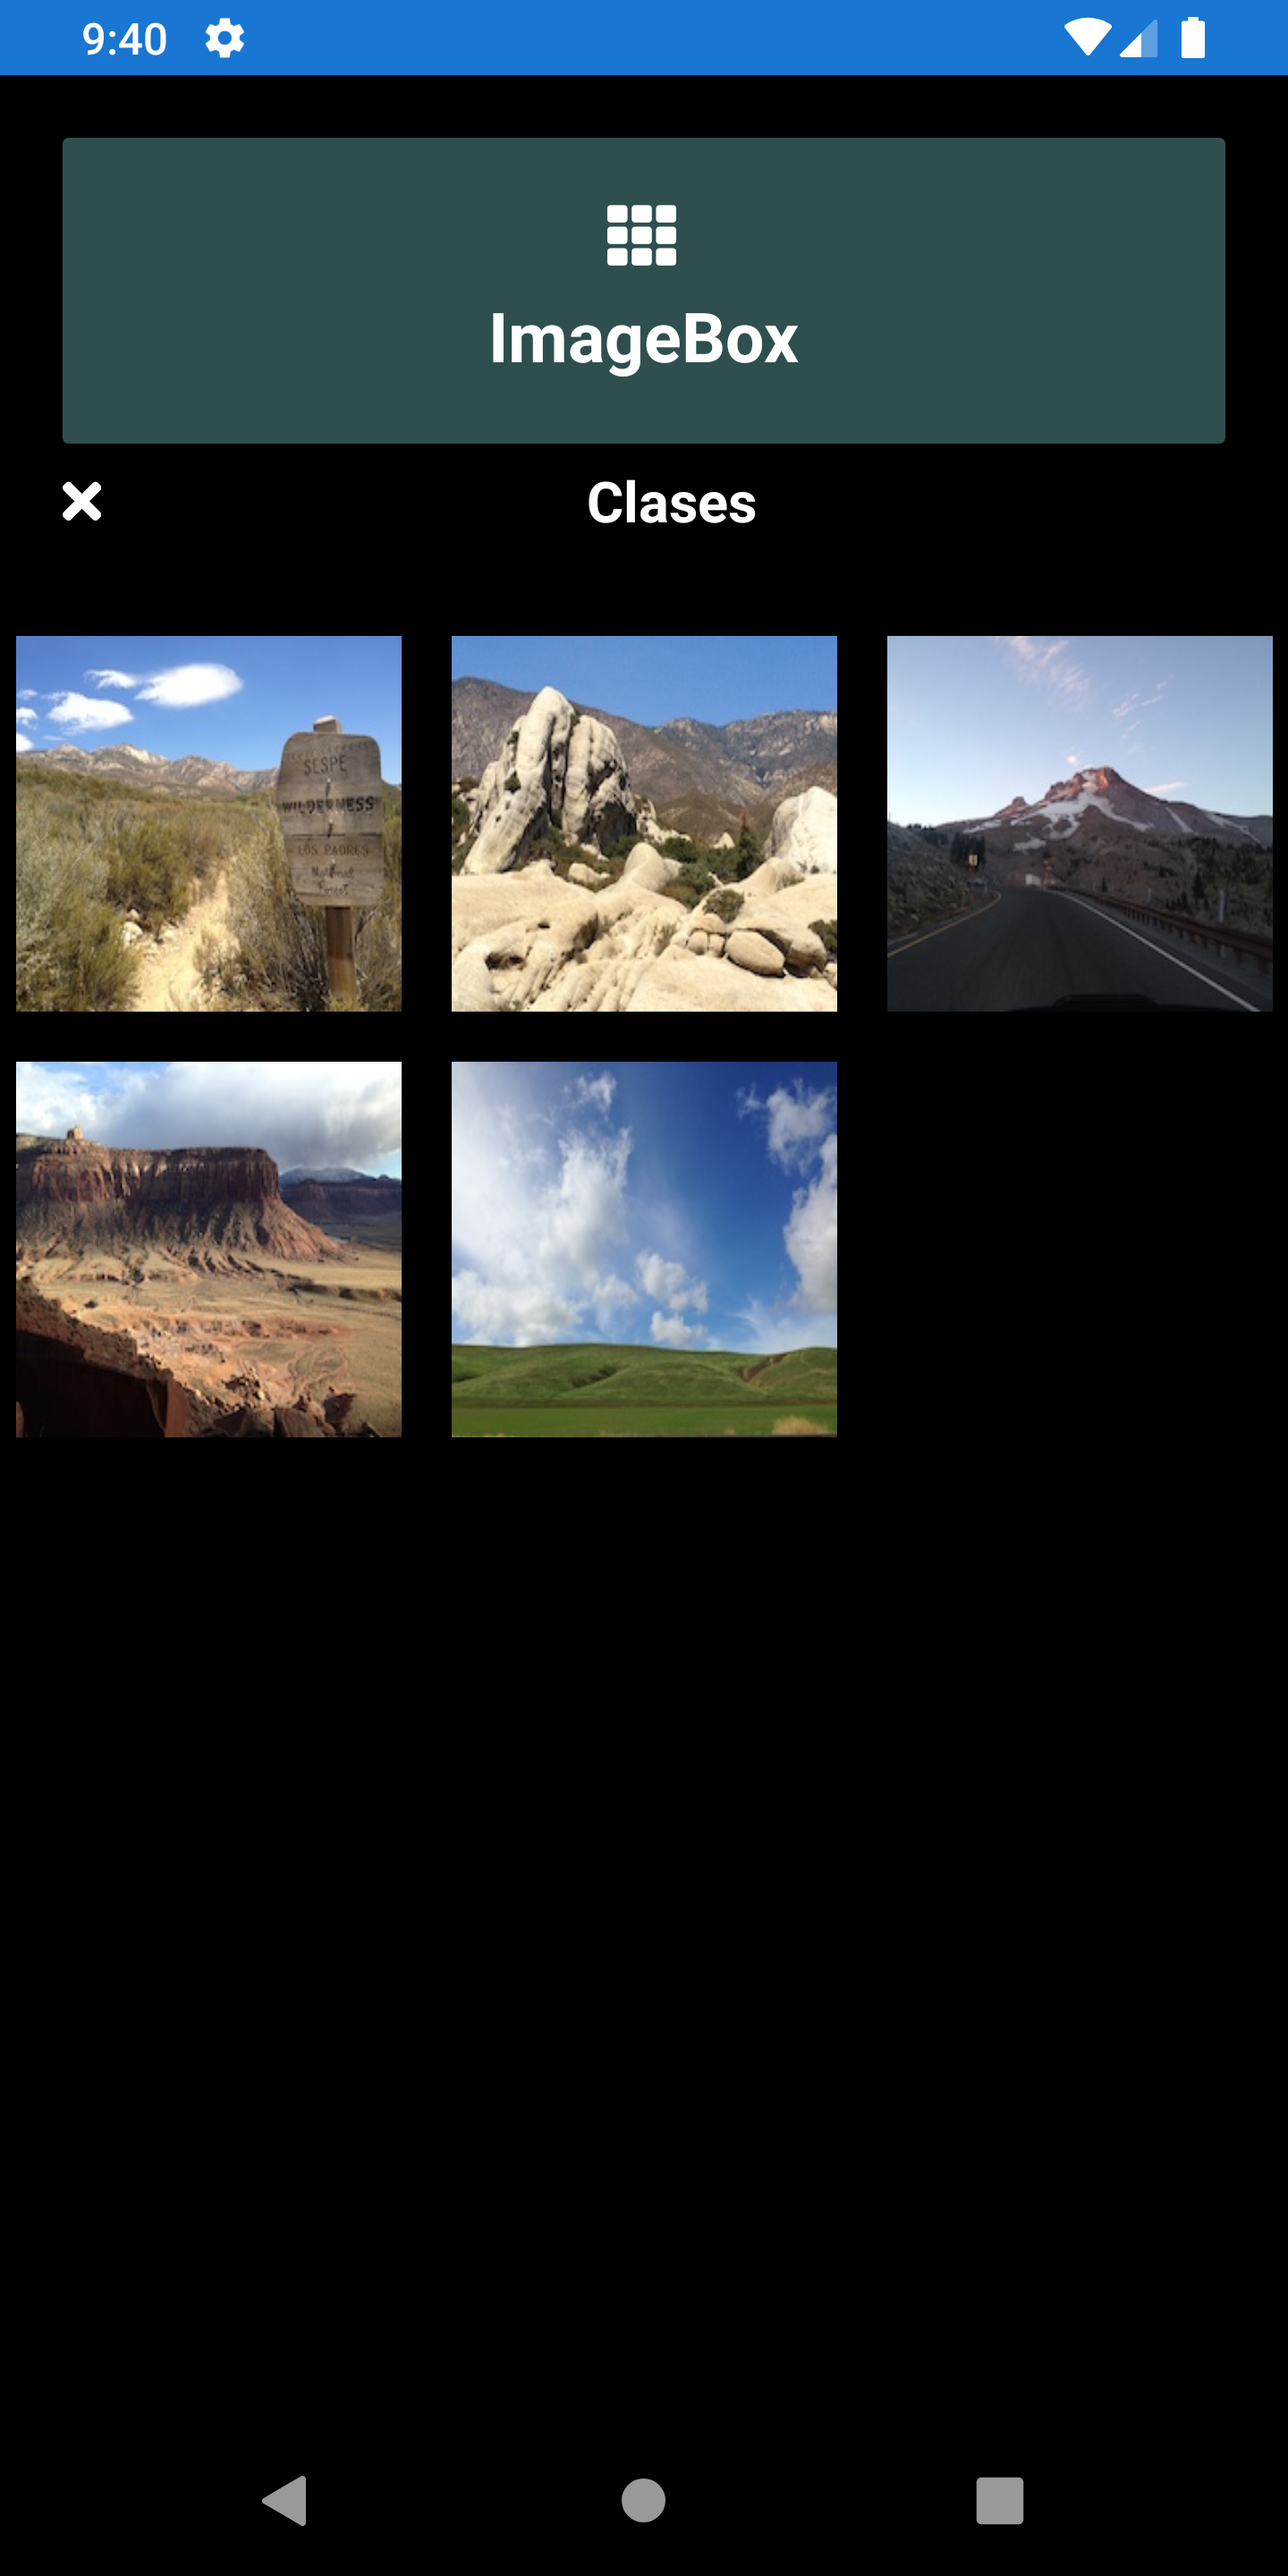
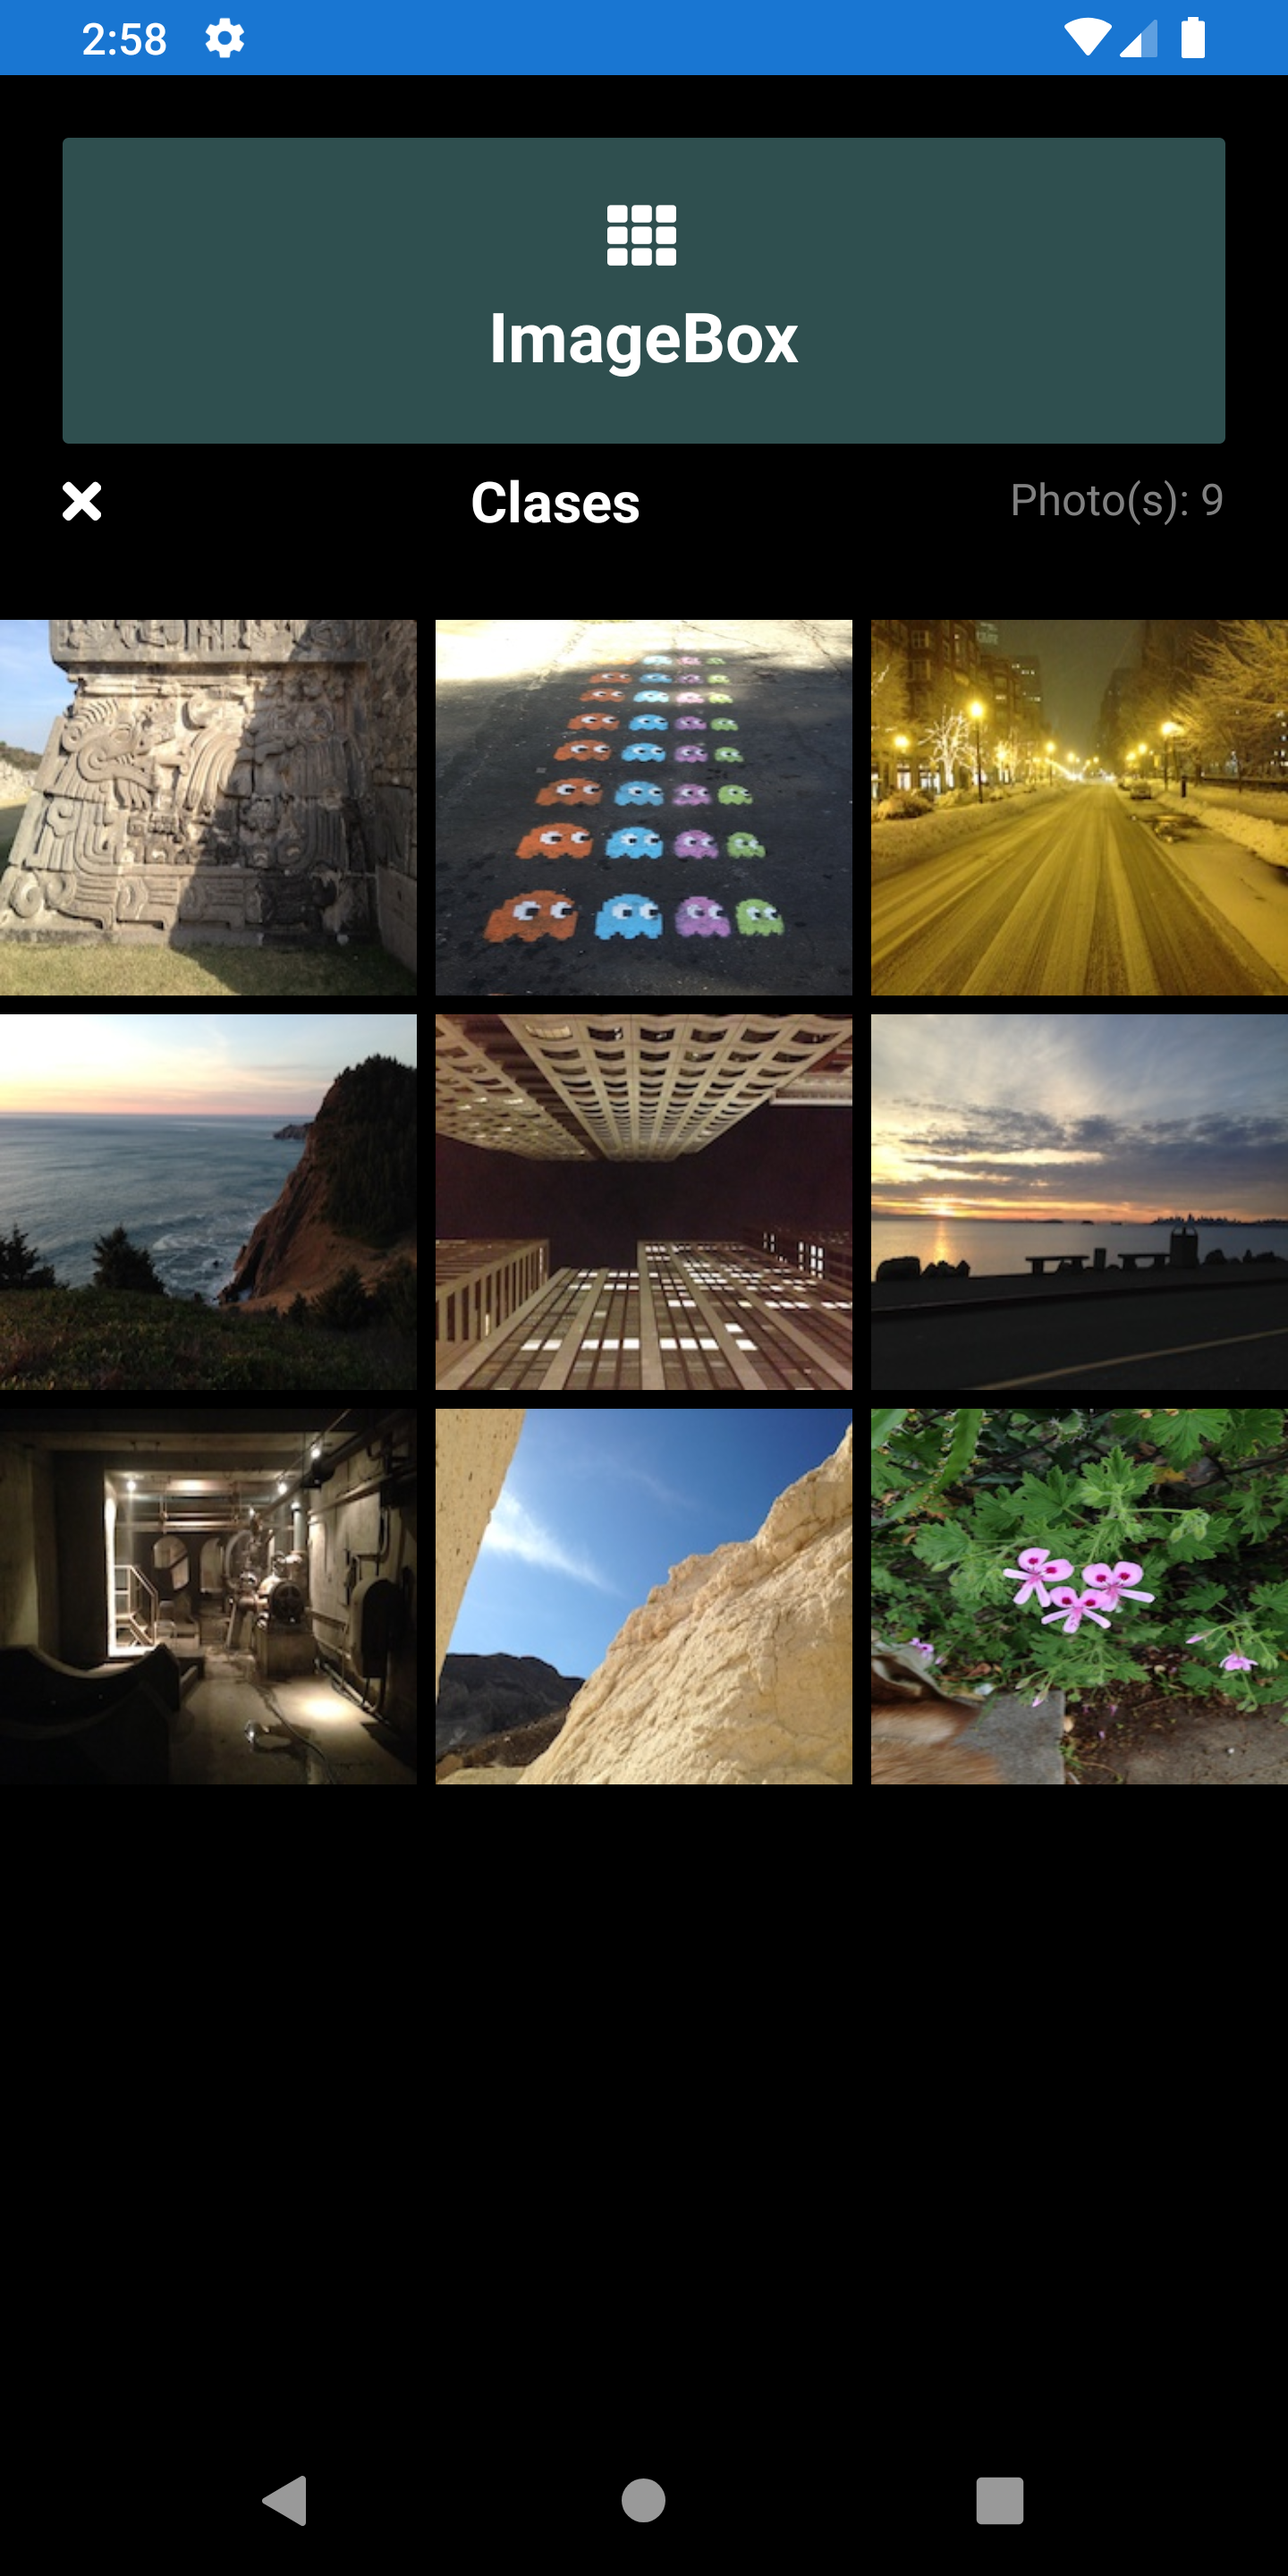
Uploading changes in the aplication layout.

diff --git a/ImageBox/ImageBox/MainPage.xaml b/ImageBox/ImageBox/MainPage.xaml
@@ -37,16 +37,16 @@
             <Label x:Name="txtPhotoTotal" Text="" TextColor="White" HorizontalOptions="Center" FontSize="Small" />
         </StackLayout>
         <StackLayout Orientation="Horizontal" VerticalOptions="FillAndExpand" HorizontalOptions="FillAndExpand">
-            <!--<ScrollView Orientation="Horizontal" VerticalOptions="FillAndExpand" HorizontalOptions="FillAndExpand">-->
-            <Image x:Name="imgCurrent" HorizontalOptions="FillAndExpand" VerticalOptions="FillAndExpand" Aspect="AspectFit" Source="Button">
-                <Image.GestureRecognizers>
-                    <SwipeGestureRecognizer Direction="Left"  Swiped="SwipeGestureRecognizer_SwipedLeft" />
-                    <SwipeGestureRecognizer Direction="Right" Swiped="SwipeGestureRecognizer_SwipedRight"/>
-                    <SwipeGestureRecognizer Direction="Up" Swiped="SwipeGestureRecognizer_SwipedUp"/>
-                    <SwipeGestureRecognizer Direction="Down" Swiped="SwipeGestureRecognizer_Swiped"/>
-                </Image.GestureRecognizers>
-            </Image>
-            <!--</ScrollView>-->
+            <Frame HorizontalOptions="FillAndExpand" VerticalOptions="FillAndExpand" BackgroundColor="Transparent" BorderColor="#1E1D1D">
+                <Image x:Name="imgCurrent" HorizontalOptions="FillAndExpand" VerticalOptions="FillAndExpand" Aspect="AspectFill" Source="Button">
+                    <Image.GestureRecognizers>
+                        <SwipeGestureRecognizer Direction="Left"  Swiped="SwipeGestureRecognizer_SwipedLeft" />
+                        <SwipeGestureRecognizer Direction="Right" Swiped="SwipeGestureRecognizer_SwipedRight"/>
+                        <SwipeGestureRecognizer Direction="Up" Swiped="SwipeGestureRecognizer_SwipedUp"/>
+                        <SwipeGestureRecognizer Direction="Down" Swiped="SwipeGestureRecognizer_Swiped"/>
+                    </Image.GestureRecognizers>
+                </Image>
+            </Frame>
         </StackLayout>
         <ActivityIndicator x:Name="activityIndicator"
                            IsRunning="True"

diff --git a/ImageBox/ImageBox/Pages/ViewFolderList.xaml b/ImageBox/ImageBox/Pages/ViewFolderList.xaml
@@ -20,6 +20,7 @@
                     </StackLayout>
                     <StackLayout Orientation="Horizontal" HorizontalOptions="CenterAndExpand" VerticalOptions="Center">
                         <Label x:Name="txtTitle" Text="ALBUMS" HorizontalOptions="Center" FontSize="Medium" FontAttributes="Bold" VerticalOptions="Center" TextColor="White"/>
+                        <controls:BadgeView x:Name="badgeTitle" Text="0" BadgeColor="Green" VerticalOptions="Start" HorizontalOptions="End"/>
                     </StackLayout>
                     <StackLayout HorizontalOptions="End" VerticalOptions="Center">
                         <Label x:Name="btnAdd" Text="&#xf067;" TextColor="White" HorizontalOptions="End" FontFamily="{StaticResource FontAwesomeSolid}" VerticalOptions="Center">

diff --git a/ImageBox/ImageBox/Pages/ViewFolderList.xaml.cs b/ImageBox/ImageBox/Pages/ViewFolderList.xaml.cs
@@ -35,6 +35,7 @@
                 df.Images = CacheDataImages.GetImages(df.Name);
                 _destinationFolder.Add(df);
             }
+            badgeTitle.Text = folders.Count.ToString();
         }
 
         private async void Button_Clicked(object sender, EventArgs e)
